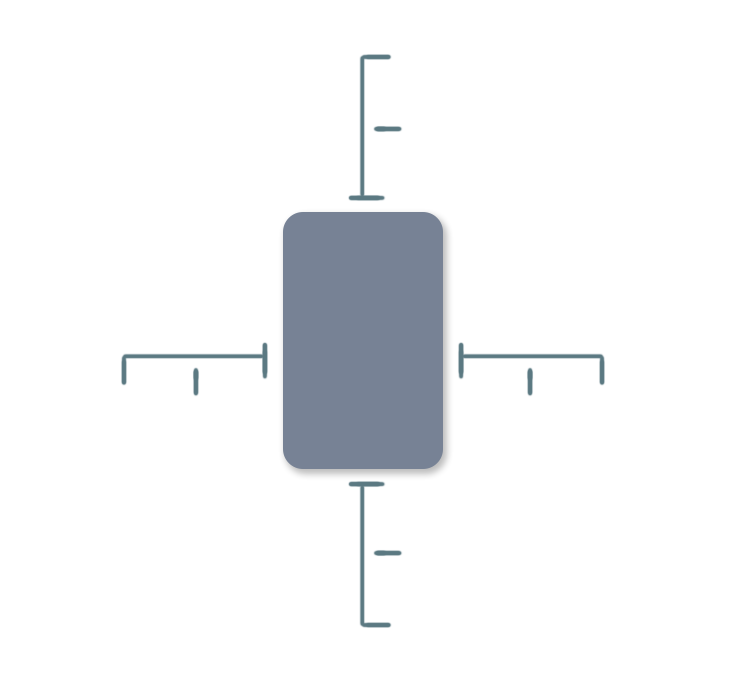
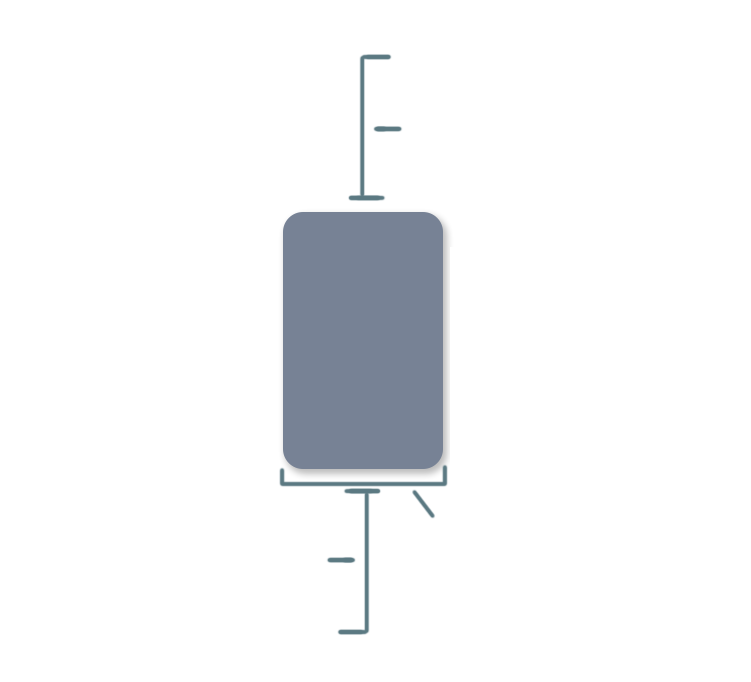
Blabla

diff --git a/PriceManagerWPF/Scripts/app.js b/PriceManagerWPF/Scripts/app.js
@@ -37,6 +37,69 @@ var material = sphere.material;
 var models = [];
 var currentModel = sphere;
 
+var currentVertexGroup = {
+    vertexObject: undefined,
+    selectedVertexObjects: [],
+    colorDefault: new THREE.Color(0.5, 0.5, 0.55),
+    colorSelected: new THREE.Color(0, 1, 0),
+
+    deselect: function(object){
+
+        var g = object.geometry;
+
+        for (var f = 0; f < g.faces.length; f++) {
+
+            var a = this.colorDefault;
+            g.faces[f].color.setRGB(a.r, a.g, a.b);
+        }
+
+        g.colorsNeedUpdate = true;
+        this.selectedVertexObjects.splice(this.selectedVertexObjects.indexOf(object));
+
+    },
+
+    deselectAll: function () {
+
+        var objs = currentVertexGroup.selectedVertexObjects;
+
+
+        for (var i = 0; i < objs.length; i++) {
+
+
+
+            var faces = objs[i].geometry.faces;
+            objs[i].geometry.colorsNeedUpdate = true;
+
+            for (var f = 0; f < faces.length; f++) {
+
+                var a = this.colorDefault;
+                faces[f].color.setRGB(a.r, a.g, a.b);
+
+            }
+
+
+        }
+
+        this.selectedVertexObjects = [];
+
+    },
+
+    select: function (object) {
+
+        var g = object.geometry;
+
+        for (var f = 0; f < g.faces.length; f++) {
+
+            var a = this.colorSelected;
+            g.faces[f].color.setRGB(a.r, a.g, a.b);
+        }
+
+        g.colorsNeedUpdate = true;
+        this.selectedVertexObjects.push(object);
+    }
+
+};
+
 scene.add(sphere, light, ambient, camera);
 var renderview;
 
@@ -52,6 +115,40 @@ function pointUnderMouse(event) {
     return vec;
 }
 
+function displayVertices() {
+
+    var geo = currentModel.geometry;
+    var verts = geo.vertices;
+    var mat = new THREE.MeshBasicMaterial();
+    mat.vertexColors = THREE.FaceColors;
+
+    var group = new THREE.Object3D();
+    scene.add(group);
+    currentVertexGroup.vertexObject = group;
+
+
+
+    for (var v = 0; v < verts.length; v++) {
+        var vert = verts[v];
+        var p = vert.clone();
+        var g = new THREE.BoxGeometry(0.05, 0.05, 0.05);
+        var m = new THREE.Mesh(g, mat);
+
+        m.position.set(p.x, p.y, p.z);
+        debugger;
+        currentVertexGroup.vertexObject.add(m);
+
+        for (var f = 0; f < g.faces.length; f++) {
+
+            var a = currentVertexGroup.colorDefault;
+            g.faces[f].color.setRGB(a.r, a.g, a.b);
+        }
+
+
+    }
+
+}
+
 function loadModel(json, materials) {
 
     var obj = JSON.parse(json);
@@ -63,6 +160,7 @@ function loadModel(json, materials) {
     switchModel(models.length - 1);
 
     setMaterial(materials);
+    displayVertices();
 }
 
 function setLightRotation(float) {
@@ -247,6 +345,75 @@ function run(elem) {
     render();
 }
 
+function setObjectColor(color, geometry) {
+
+    geometry.colorsNeedUpdate = true;
+
+    for (var f = 0; f < geometry.faces.length; f++) {
+        var face = geometry.faces[f];
+
+        face.color.setRGB(color.r, color.g, color.b);
+    }
+
+}
+
+var lines = null;
+var lineStats = [];
+
+function getLineStats() {
+
+    lineStats = [];
+
+    var verts = lines.geometry.vertices;
+
+    for (var l = 0; l < verts.length - 1; l++) {
+
+
+        var length = verts[l].clone().distanceTo(verts[l + 1])
+        length = Math.round(length * 1000);
+
+        var dx = verts[l + 1].x - verts[l].x;
+        var dy = verts[l + 1].y - verts[l].y;
+
+        var rad = Math.atan(dy / dx);
+        var deg = (rad / Math.PI) * 180;
+
+        lineStats.push({
+            length: length,
+            angle: deg
+        })
+
+    }
+
+
+    console.log(lineStats)
+}
+
+function updateLines() {
+
+    if (currentVertexGroup.selectedVertexObjects.length < 2) return;
+
+    var mat = new THREE.LineBasicMaterial();
+    mat.color = new THREE.Color(0.2, 0.7, 0.2);
+
+    var g = new THREE.Geometry();
+
+    if (lines) {
+        scene.remove(lines);
+        lines = null;
+    }
+    debugger;
+    for (var v = 0; v < currentVertexGroup.selectedVertexObjects.length - 1; v++) {
+
+        g.vertices.push(currentVertexGroup.selectedVertexObjects[v].position.clone());
+        g.vertices.push(currentVertexGroup.selectedVertexObjects[v + 1].position.clone());
+    }
+
+    lines = new THREE.LineSegments(g, mat);
+    scene.add(lines);
+    getLineStats();
+}
+
 window.onload = function () {
 
     var divs = $(".wrapper");
@@ -283,26 +450,27 @@ window.onload = function () {
     raycaster.far = 20;
 
     var div = document.createElement("div");
-    $(".render-view")[0].addEventListener("mousemove", function (event) {
+
+    $(".render-view")[0].addEventListener("click", function (event) {
         event.preventDefault();
+        debugger;
+        if (currentVertexGroup) {
 
-        var point = pointUnderMouse(event);
-        console.log(point)
+            var point = pointUnderMouse(event);
 
-        raycaster.setFromCamera(point, camera);
+            raycaster.setFromCamera(point, camera);
 
-        var intersects = raycaster.intersectObjects([currentModel], true);
+            var intersects = raycaster.intersectObjects([currentVertexGroup.vertexObject], true);
+            console.log(currentVertexGroup.vertexObject)
+            if (intersects.length > 0) {
 
-        console.log(intersects)
+                var object = intersects[0].object;
 
-        if (intersects.length > 0) {
-            var p = intersects[0].point;
-            var m = new THREE.Mesh(new THREE.BoxGeometry(0.1, 0.1, 0.1), new THREE.MeshBasicMaterial());
-            m.position.set(p.x, p.y, p.z);
-            scene.add(m);
+                currentVertexGroup.select(object);
+
+                updateLines();
+            }
         }
-
-
 
     }, { capture: true })
 

diff --git a/PriceManagerWPF/MainWindow.xaml b/PriceManagerWPF/MainWindow.xaml
@@ -17,7 +17,7 @@
         <Button x:Name="button" HorizontalAlignment="Left" VerticalAlignment="Top" Width="125" Height="30" Click="button_AddModel" BorderThickness="0,1" BorderBrush="#8C000000" Background="#FF9AFFBA" Canvas.Top="5">
             <Label x:Name="label" Content="Add new model" FontWeight="Medium" FontFamily="Arial" FontSize="16" Background="{x:Null}" OpacityMask="#FF323030" Foreground="#FF6C6C6C"/>
         </Button>
-        <GroupBox x:Name="groupBox" Header="Model" Canvas.Left="210" Canvas.Top="40" BorderBrush="#BF5B6E7A" BorderThickness="1" Width="285" Height="576" Background="#FFECECEC">
+        <GroupBox x:Name="modelDataView" Header="Model" Canvas.Left="210" Canvas.Top="40" BorderBrush="#BF5B6E7A" BorderThickness="1" Width="285" Height="576" Background="#FFECECEC">
             <ListBox x:Name="listBox" BorderBrush="{x:Null}" VerticalContentAlignment="Center" HorizontalContentAlignment="Stretch" ScrollViewer.HorizontalScrollBarVisibility="Disabled" ScrollViewer.CanContentScroll="False" Margin="4,10" Background="#FFECECEC">
                 <Expander x:Name="exp_base" Header="Base" BorderBrush="Black" BorderThickness="0,0,0,1" IsExpanded="True" Width="239">
                     <ListBox x:Name="listBox1" Background="#FFECECEC">
@@ -27,7 +27,7 @@
                         </WrapPanel>
                         <WrapPanel Height="29">
                             <TextBlock x:Name="textBlock1" TextWrapping="Wrap" Text="Type:" Height="20" Width="80"/>
-                            <TextBox x:Name="textBox_base_Type" Text="{Binding Item.Type, Mode=TwoWay, UpdateSourceTrigger=PropertyChanged}" Height="20" TextWrapping="Wrap" Width="145" AutomationProperties.HelpText="Enter name..." Background="#FF9AFFBA"/>
+                            <TextBox x:Name="textBox_base_Type" Text="{Binding Item.Type, Mode=TwoWay, UpdateSourceTrigger=PropertyChanged}" Height="20" TextWrapping="Wrap" Width="145" AutomationProperties.HelpText="Enter name..." Background="#FF9AFFBA" TextChanged="setType"/>
                         </WrapPanel>
                     </ListBox>
                 </Expander>
@@ -49,6 +49,18 @@
                             <WrapPanel Height="29">
                                 <TextBlock x:Name="textBlock5" TextWrapping="Wrap" Text="Angle:" Height="20" Width="80"/>
                                 <TextBox x:Name="textBox_size_AngleDeg" Text="{Binding Item.SizeData.AngleDeg, Mode=TwoWay, UpdateSourceTrigger=PropertyChanged}" Height="20" TextWrapping="Wrap" Width="145" AutomationProperties.HelpText="Enter name..." TextChanged="controlTextChange"/>
+                            </WrapPanel>
+                            <WrapPanel Height="29">
+                                <TextBlock x:Name="textBlock9" TextWrapping="Wrap" Text="Roof Length" Height="20" Width="80"/>
+                                <TextBox x:Name="textBox_size_AngleDeg1" Text="{Binding Item.SizeData.RoofLength, Mode=TwoWay, UpdateSourceTrigger=PropertyChanged}" Height="20" TextWrapping="Wrap" Width="145" AutomationProperties.HelpText="Enter name..." TextChanged="controlTextChange"/>
+                            </WrapPanel>
+                            <WrapPanel Height="29">
+                                <TextBlock x:Name="textBlock10" TextWrapping="Wrap" Text="Offset Top" Height="20" Width="80"/>
+                                <TextBox x:Name="textBox_size_AngleDeg2" Text="{Binding Item.SizeData.OffsetTop, Mode=TwoWay, UpdateSourceTrigger=PropertyChanged}" Height="20" TextWrapping="Wrap" Width="145" AutomationProperties.HelpText="Enter name..." TextChanged="controlTextChange"/>
+                            </WrapPanel>
+                            <WrapPanel Height="29">
+                                <TextBlock x:Name="textBlock11" TextWrapping="Wrap" Text="Offset Bottom" Height="20" Width="80"/>
+                                <TextBox x:Name="textBox_size_AngleDeg3" Text="{Binding Item.SizeData.OffsetBottom, Mode=TwoWay, UpdateSourceTrigger=PropertyChanged}" Height="20" TextWrapping="Wrap" Width="145" AutomationProperties.HelpText="Enter name..." TextChanged="controlTextChange"/>
                             </WrapPanel>
                         </ListBox>
                     </Grid>

diff --git a/PriceManagerWPF/Window_model.xaml b/PriceManagerWPF/Window_model.xaml
@@ -22,16 +22,15 @@
         <Border BorderBrush="Black" BorderThickness="2" Height="515" Canvas.Left="10" Canvas.Top="65" Width="515"/>
         <Grid x:Name="truss_Container" Visibility="Hidden" Height="512" Canvas.Left="554" Canvas.Top="68" Width="514">
             <Image x:Name="truss" Source="trusses_measurements.png" Margin="0"/>
-            <TextBox HorizontalAlignment="Left" Height="22" Margin="201,399,0,0" TextWrapping="Wrap" Text="TextBox" VerticalAlignment="Top" Width="60"/>
-            <TextBox HorizontalAlignment="Left" Height="22" Margin="472,233,-18,0" TextWrapping="Wrap" Text="TextBox" VerticalAlignment="Top" Width="60"/>
-            <TextBox HorizontalAlignment="Left" Height="22" Margin="174,171,0,0" TextWrapping="Wrap" Text="TextBox" VerticalAlignment="Top" Width="60"/>
+            <TextBox HorizontalAlignment="Left" Height="22" Margin="201,399,0,0" TextWrapping="Wrap" Text="{Binding Item.SizeData.Width, Mode=TwoWay, UpdateSourceTrigger=PropertyChanged}" VerticalAlignment="Top" Width="60"/>
+            <TextBox HorizontalAlignment="Left" Height="22" Margin="472,233,-18,0" TextWrapping="Wrap" Text="{Binding Item.SizeData.Height, Mode=TwoWay, UpdateSourceTrigger=PropertyChanged}" VerticalAlignment="Top" Width="60"/>
+            <TextBox HorizontalAlignment="Left" Height="22" Margin="174,171,0,0" TextWrapping="Wrap" Text="{Binding Item.SizeData.RoofLength, Mode=TwoWay, UpdateSourceTrigger=PropertyChanged}" VerticalAlignment="Top" Width="60"/>
         </Grid>
         <Grid x:Name="items_Container" Visibility="Hidden" Height="512" Canvas.Left="554" Canvas.Top="68" Width="512">
-            <Image x:Name="items" Source="items_measurements.png" Margin="0"/>
-            <TextBox HorizontalAlignment="Left" Height="22" Margin="104,301,0,0" TextWrapping="Wrap" Text="TextBox" VerticalAlignment="Top" Width="60"/>
-            <TextBox HorizontalAlignment="Left" Height="22" Margin="332,301,0,0" TextWrapping="Wrap" Text="TextBox" VerticalAlignment="Top" Width="60"/>
-            <TextBox HorizontalAlignment="Left" Height="22" Margin="280,389,0,0" TextWrapping="Wrap" Text="TextBox" VerticalAlignment="Top" Width="60"/>
-            <TextBox HorizontalAlignment="Left" Height="22" Margin="280,101,0,0" TextWrapping="Wrap" Text="TextBox" VerticalAlignment="Top" Width="60"/>
+            <Image Source="items_measurements.png"></Image>
+            <TextBox HorizontalAlignment="Left" Height="22" Margin="154,394,0,0" TextWrapping="Wrap" Text="{Binding Item.SizeData.OffsetBottom, Mode=TwoWay, UpdateSourceTrigger=PropertyChanged}" VerticalAlignment="Top" Width="60"/>
+            <TextBox HorizontalAlignment="Left" Height="22" Margin="277,382,0,0" TextWrapping="Wrap" Text="{Binding Item.SizeData.Width, Mode=TwoWay, UpdateSourceTrigger=PropertyChanged}" VerticalAlignment="Top" Width="60"/>
+            <TextBox HorizontalAlignment="Left" Height="22" Margin="280,101,0,0" TextWrapping="Wrap" Text="{Binding Item.SizeData.OffsetTop, Mode=TwoWay, UpdateSourceTrigger=PropertyChanged}" VerticalAlignment="Top" Width="60"/>
         </Grid>
     </Canvas>
 

diff --git a/PriceManagerWPF/MainWindow.xaml.cs b/PriceManagerWPF/MainWindow.xaml.cs
@@ -90,12 +90,10 @@ namespace PriceManagerWPF
 
             manager = new ScriptManager(new Window[] {Hub.mainWindow, Hub.window_colorpicker, Hub.window_material, Hub.window_model });
 
-            groupBox.Visibility = Visibility.Hidden;
+            modelDataView.Visibility = Visibility.Hidden;
             SetBindings();
 
             var col = new ColorWpf().FromHsv(0, 1, 1);
-            
-
         }
 
         public static IEnumerable<T> FindVisualChildren<T>(DependencyObject depObj) where T : DependencyObject
@@ -286,6 +284,15 @@ namespace PriceManagerWPF
             Hub.window_material.list_Materials.Items.Clear();
             DataContext = viewModel;
 
+            Hub.window_model.DataContext = null;
+            Hub.window_model.DataContext = viewModel;
+
+            Hub.window_material.DataContext = null;
+            Hub.window_material.DataContext = DataContext;
+
+            Hub.window_colorpicker.DataContext = null;
+            Hub.window_colorpicker.DataContext = DataContext;
+
 
             foreach (var mat in viewModel.Item.Materials)
             {
@@ -310,7 +317,7 @@ namespace PriceManagerWPF
                 viewModel.Item = Models[list_Models.SelectedIndex];
 
                 UpdateBindings();
-                groupBox.Visibility = Visibility.Visible;
+                modelDataView.Visibility = Visibility.Visible;
             }
         }
 
@@ -357,6 +364,24 @@ namespace PriceManagerWPF
             }
 
             AddModel(model);
+        }
+
+        private void setType(object sender, TextChangedEventArgs e)
+        {
+            TextBox txt = (sender as TextBox);
+
+            if (txt.Text.ToLower().Contains("truss"))
+            {
+                Hub.window_model.truss_Container.Visibility = Visibility.Visible;
+                Hub.window_model.items_Container.Visibility = Visibility.Hidden;
+
+            }
+            else if (txt.Text.ToLower().Contains("window") || txt.Text.ToLower().Contains("gate") || txt.Text.ToLower().Contains("door"))
+            {
+                Hub.window_model.truss_Container.Visibility = Visibility.Hidden;
+                Hub.window_model.items_Container.Visibility = Visibility.Visible;
+            }
+
         }
     }
 }

diff --git a/PriceManagerWPF/Window_model.xaml.cs b/PriceManagerWPF/Window_model.xaml.cs
@@ -40,7 +40,8 @@ namespace PriceManagerWPF
             settings.RemoteDebuggingPort = 8088;
             BrowserSettings sett = new BrowserSettings();
             sett.Javascript = CefState.Enabled;
-
+            sett.FileAccessFromFileUrls = CefState.Enabled;
+            sett.UniversalAccessFromFileUrls = CefState.Enabled;
             sett.WebSecurity = CefState.Disabled;
             // Initialize cef with the provided settings
             Cef.Initialize(settings);

diff --git a/PriceManagerWPF/ModelData.cs b/PriceManagerWPF/ModelData.cs
@@ -113,7 +113,8 @@ namespace PriceManagerWPF
         public int Height { get; set; }
         public int Depth { get; set; }
         public float[] Angles { get; set; }
-        public int HeightOffset { get; set; }
+        public int OffsetBottom { get; set; }
+        public int OffsetTop { get; set; }
         public int RoofLength { get; set; }
 
         public Dictionary<string, float[]> SnapPoints = new Dictionary<string, float[]>();

diff --git a/PriceManagerWPF/MainViewModel.cs b/PriceManagerWPF/MainViewModel.cs
@@ -3,6 +3,7 @@ using System.Collections.Generic;
 using System.Linq;
 using System.Text;
 using System.Threading.Tasks;
+using System.Windows;
 
 namespace PriceManagerWPF
 {
@@ -11,6 +12,5 @@ namespace PriceManagerWPF
         public int materialId { get; set; }
         public Material material { get; set; }
         public ModelData Item { get; set; }
-
     }
 }
